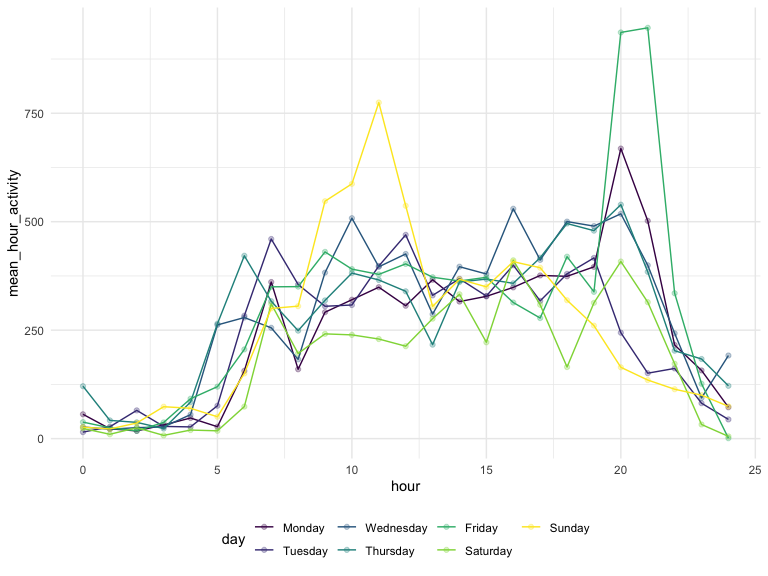
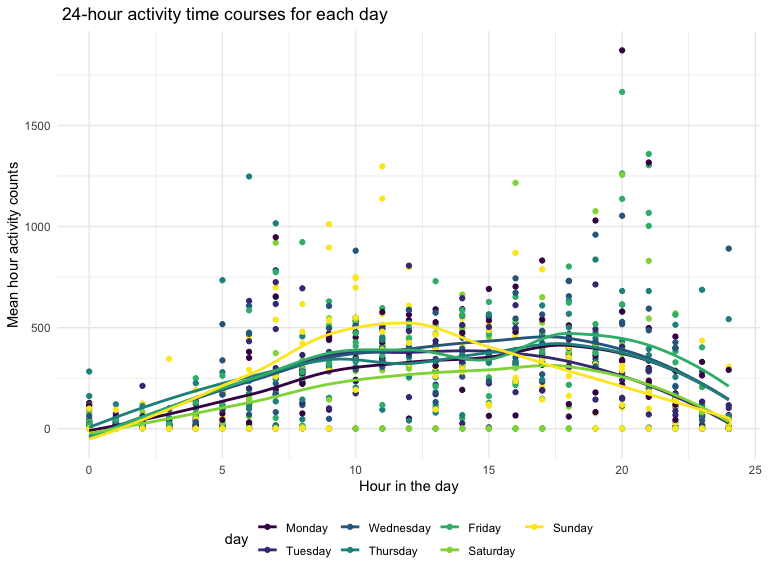
Problem3 comment

diff --git a/P8105_hw3_gl2677.md b/P8105_hw3_gl2677.md
@@ -43,11 +43,11 @@ instacart %>%
   mutate(aisle = forcats::fct_reorder(aisle, n)) %>% 
   ggplot(aes(x = aisle, y = n, fill = aisle)) +
   geom_bar(stat = "identity") +
+  coord_flip() +
   labs(title = "The number of items ordered in each aisle",
        x = "Aisle",
        y = "The number of items") +
-  theme(axis.text.x = element_text(angle = 60, hjust = 1),
-        legend.position = "none")
+  theme(legend.position = "none")
 ```
 
 <img src="P8105_hw3_gl2677_files/figure-gfm/plot-1.png" width="90%" />
@@ -578,8 +578,8 @@ activity = read_csv("./data/accel_data.csv") %>%
 ```
 
   - There are 50400 observations and 7 variables in `acticity` dataset.
-    The variables are week, day\_id, day, minute, minute\_activity,
-    hour, weekday. For each observation, the dataset shows the activity
+    The variables are `week, day_id, day, minute, minute_activity, hour,
+    weekday`. For each observation, the dataset shows the activity
     counts for the exact minute of a 24-hour day starting at midnight on
     exact day and exact week.
 
@@ -591,10 +591,17 @@ activity %>%
   summarize(day_activity = sum(minute_activity)) %>% 
   pivot_wider(names_from = day,
               values_from = day_activity) %>% 
-  knitr::kable(digits = 0) 
+  knitr::kable(digits = 0,
+               caption ="The total activity over the day for five weeks") 
 ```
 
 <table>
+
+<caption>
+
+The total activity over the day for five weeks
+
+</caption>
 
 <thead>
 
@@ -919,13 +926,18 @@ Sunday
 </table>
 
 ``` r
-day_plot = activity %>% 
+ activity %>% 
   group_by(week, day) %>% 
   summarize(day_activity = sum(minute_activity)) %>% 
   ggplot(aes(x = day, y = day_activity, color = week, group = week)) +
   geom_point() +
-  geom_line()
+  geom_line() +
+  labs(title = "The total activity over the day for five weeks",
+       x = "",
+       y = "Day activity counts")
 ```
+
+<img src="P8105_hw3_gl2677_files/figure-gfm/day_activity table-1.png" width="90%" />
 
   - The accelerometer acticity counts for all five weeks increase on
     Wednesday comparing to Tuesday. and they all are numerically similar
@@ -936,16 +948,27 @@ day_plot = activity %>%
 
 ``` r
 activity %>% 
-  group_by(day, hour) %>% 
+  group_by(hour, day) %>% 
   summarize(mean_hour_activity = mean(minute_activity)) %>% 
   ggplot(aes(x = hour, y = mean_hour_activity,
              color = day, group = day)) +
-  geom_point(alpha = .3) +
+  geom_point() +
   geom_line() +
-  xlim(0, 24)
+  labs(title = " 24-hour activity time courses for each day ",
+       x = "Hour in the day",
+       y = "Mean hour activity counts")
 ```
 
 <img src="P8105_hw3_gl2677_files/figure-gfm/minute_activity plot-1.png" width="90%" />
 
-  - Describe in words any patterns or conclusions you can make based on
-    this graph.
+  - The `mean_hour_activity` except on Sunday has the similar pattern
+    that the counts increase starting from around 5:00 and reach the
+    peak around 20:00, then decrease until 23:00. This means the most
+    intense physical activity occurs around eight o’clock in the
+    evening, and he might get up around five o’clock in the morning and
+    go to bed around eleven o’clock in the evening.
+  - The `mean_hour_activity` counts on Sunday increase starting from
+    around 5:00 and reach the peak around 11:00, then decrease until
+    23:00. This means the most intense physical activity occurs around
+    11 o’clock in the morning, and he might get up around five o’clock
+    in the morning and go to bed around eleven o’clock in the evening.
